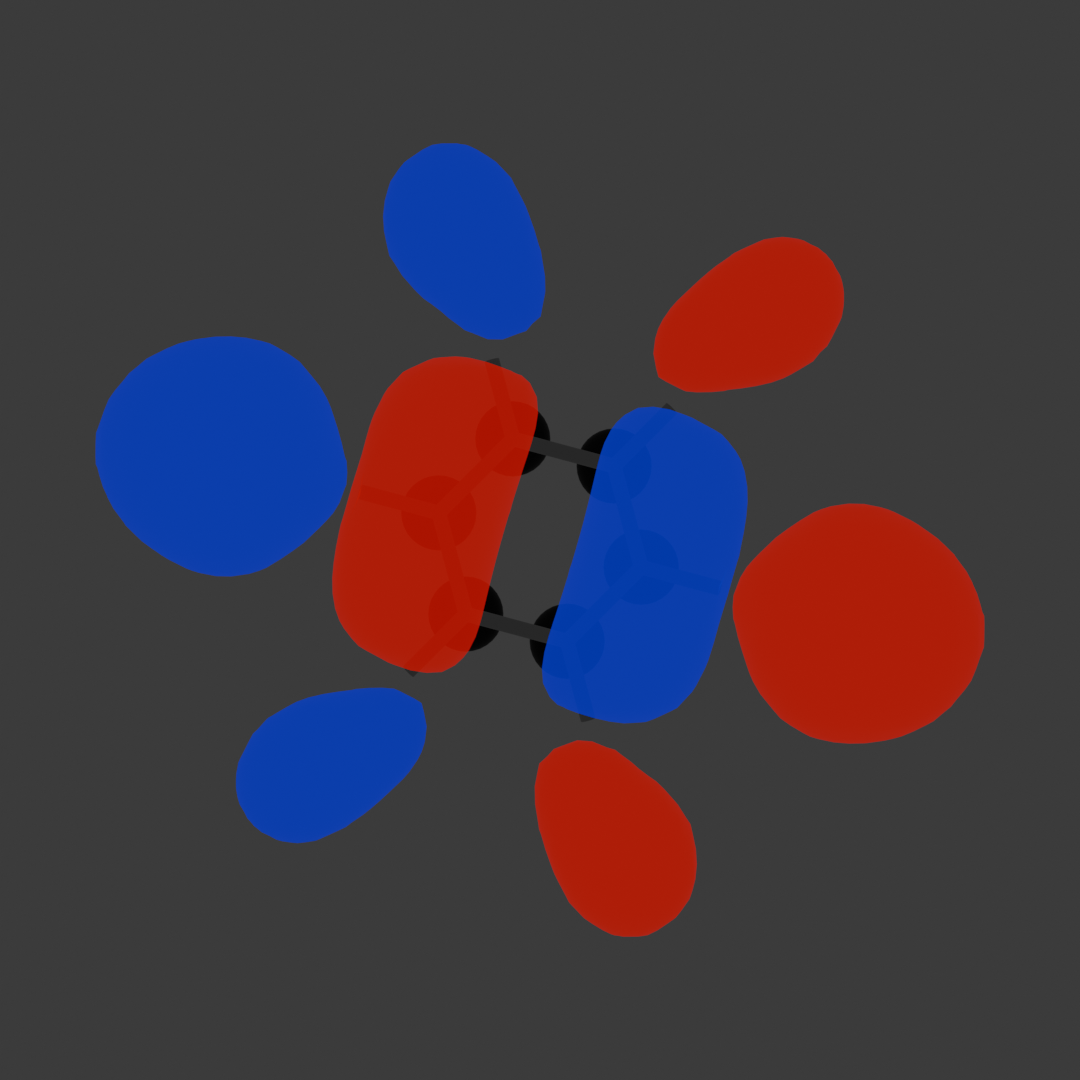
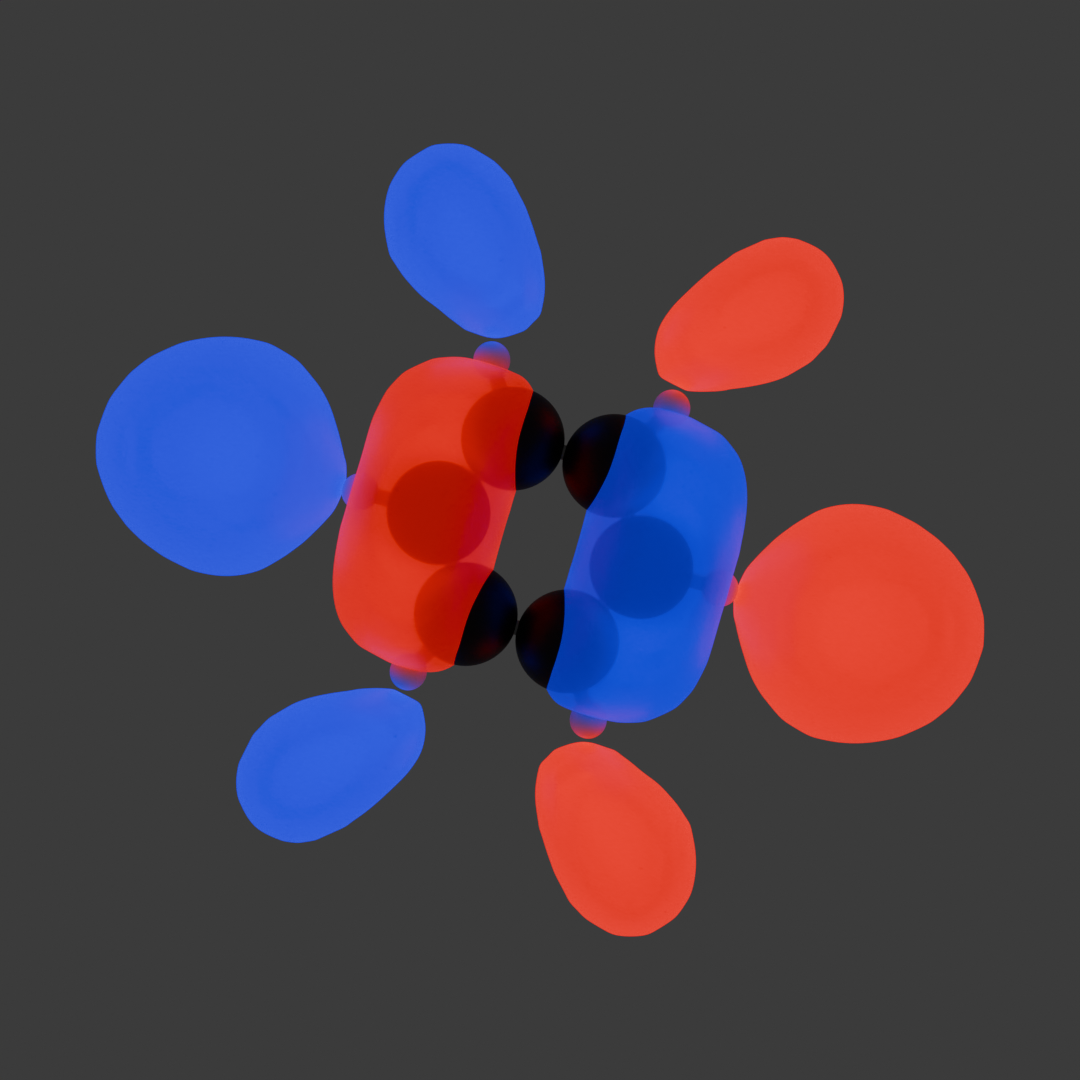
Added subsurface divisions to smooth out wavefunctions and atoms.

Changed region(s): [[0.0917, 0.1222, 0.9167, 0.8861]]

diff --git a/src/wavefunction.py b/src/wavefunction.py
@@ -16,6 +16,7 @@ class WavefunctionPart(BlenderObject):
         axes,
         level=0.02,
         cell=((1, 0, 0), (0, 1, 0), (0, 0, 1)),
+        quality=2,
         **kwargs,
     ):
         self.level = level
@@ -36,6 +37,9 @@ class WavefunctionPart(BlenderObject):
         self.blender_object.modifiers["Remesh"].mode = "VOXEL"
         self.blender_object.modifiers["Remesh"].voxel_size = 0.2
         self.blender_object.modifiers["Remesh"].use_smooth_shade = True
+        modifier = self.blender_object.modifiers.new("Subsurface", "SUBSURF")
+        modifier.levels = max(0, quality - 1)
+        modifier.render_levels = quality
         bpy.data.collections["Collection"].objects.link(self.blender_object)
 
         self.material = Material.pre_defined(f"{name} Wavefunction")

diff --git a/src/atom.py b/src/atom.py
@@ -18,6 +18,7 @@ class Atom(BlenderObject):
         symbol,
         location=(0, 0, 0),
         cell=((1, 0, 0), (0, 1, 0), (0, 0, 1)),
+        quality=1,
         **kwargs
     ):
         self.cell = cell
@@ -34,6 +35,9 @@ class Atom(BlenderObject):
         self.blender_object.data.polygons.foreach_set(
             "use_smooth", [True] * len(self.blender_object.data.polygons)
         )
+        modifier = self.blender_object.modifiers.new("Subsurface", "SUBSURF")
+        modifier.levels = max(0, quality - 1)
+        modifier.render_levels = quality
         self.material = element.material
         super().__init__(**kwargs)
 

diff --git a/demo/scripts/cube.py b/demo/scripts/cube.py
@@ -13,4 +13,4 @@ wf = Wavefunction.read(dir_ / "data" / "benzene_HOMO-6.cube")
 # Camera object needed for rendering
 camera = Camera()
 # Use "fast" to set scene, "quality" for final render (much slower)
-camera.render(dir_ / "output" / "cube.png", mode="fast")
+camera.render(dir_ / "output" / "cube.png", mode="quality")
